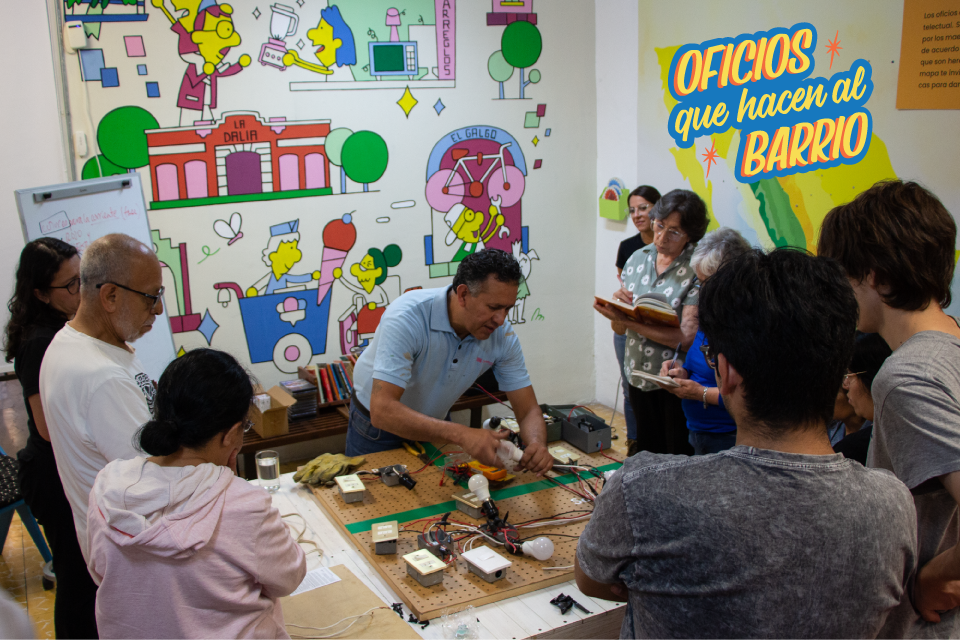
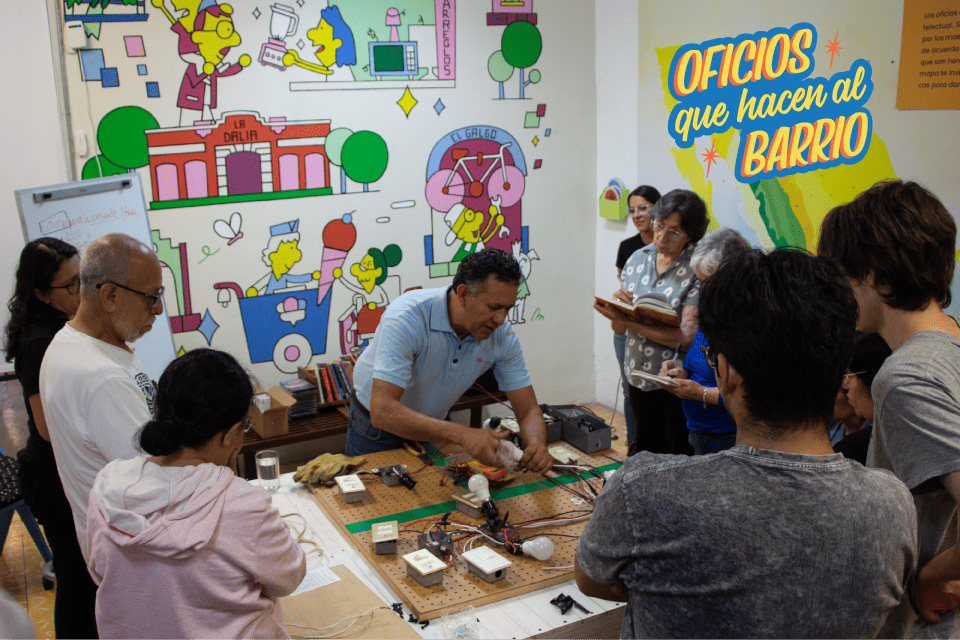
donaciones-oficios imagenes

diff --git a/resources/views/partials/modals.blade.php b/resources/views/partials/modals.blade.php
@@ -8,8 +8,8 @@
                 <div class="row">
                     <div class="col-lg-7">
                         <div class="donacion-imagen">
-                            <img src="{{ asset('assets/images/donaciones/modal-bg4.jpg') }}"
-                                alt="Campaña de fondeo colectivo">
+                            <img src="{{ asset('assets/images/donaciones/banner-oficios.png') }}"
+                                alt="Oficios que hacen al barrio. Campaña de fondeo colectivo">
                         </div>
 
                         <div class="donacion-text-wrapper">
@@ -20,9 +20,9 @@
                                 medio ambiente.</p>
 
                             <div class="text-right mt-12">
-                                <a href="{{ route('donaciones') }}"
-                                    class="px-4 py-2 rounded-xl bg-forest text-white mt-4 hover:no-underline hover:bg-green-800/90 transition">
-                                    Más información
+                                <a href="https://casagallina.org.mx/donaciones/donacion-campaign-oficios"
+                                    class="px-4 py-2 rounded-xl bg-forest text-green mt-4 hover:no-underline hover:bg-green-800/90 transition">
+                                   Más información
                                      <!-- Va el link con la campaña de fondeo oficios -->
                                 </a>
                             </div>
@@ -33,7 +33,7 @@
                             action="/donaciones/checkout">
                             @csrf
 
-                            <h3>Casa Gallina: 10 años de trabajo comunitario</h3>
+                            <h3>Oficios que hacen al barrio.<br>Campaña de fondeo colectivo</h3>
 
 
                             <!--
